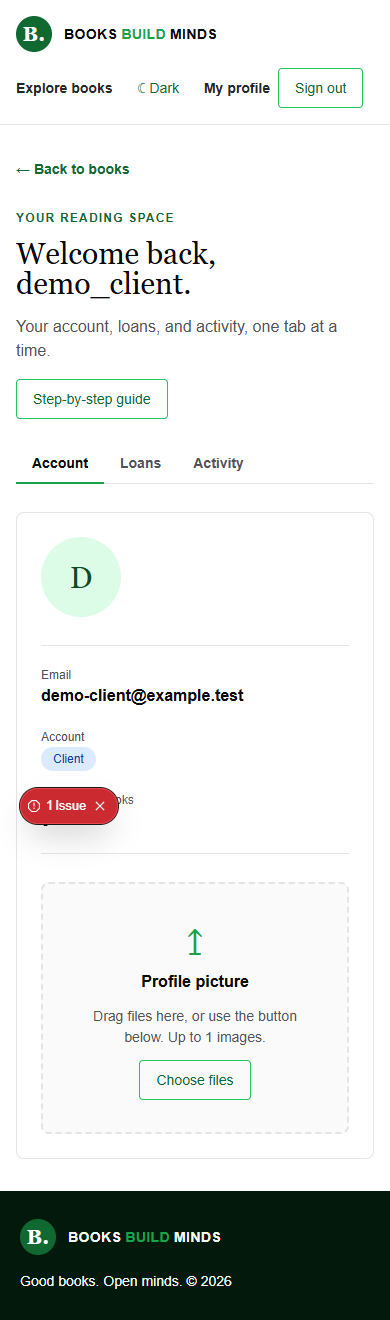
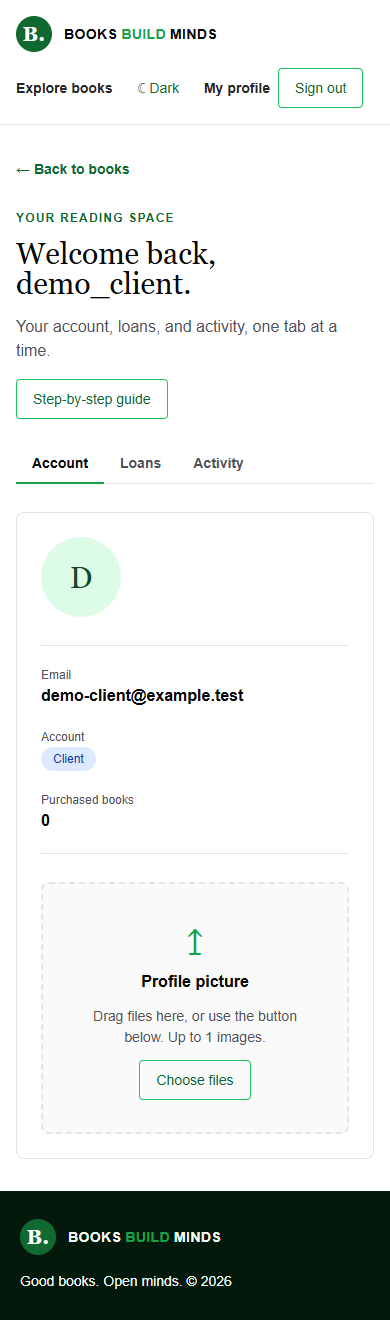
Fix tab hydration and refresh responsive screenshots

Changed region(s): [[0.0308, 0.5902, 0.3077, 0.6523]]

diff --git a/src/Components/custom/tabs/GenericTabs.tsx b/src/Components/custom/tabs/GenericTabs.tsx
@@ -7,14 +7,14 @@ import type { GenericTabsProps } from "@/props/custom/tabs/GenericTabsProps";
 
 const GenericTabs = (props: GenericTabsProps) => {
   const { value, changeTab } = useGenericTabs(props);
-  return <Tabs.Root value={value} onValueChange={changeTab} lazyMount unmountOnExit={false} hideMode="activity" colorPalette="green" variant="line" mt="6" minW="0">
+  return <Tabs.Root value={value} onValueChange={changeTab} lazyMount unmountOnExit={false} colorPalette="green" variant="line" mt="6" minW="0">
     <Box overflowX="auto" pb="1">
       <Tabs.List aria-label={props.label} minW="max-content">
         {props.items.map((item) => <Tabs.Trigger key={item.value} value={item.value} disabled={item.disabled}
           px={{ base: "4", md: "6" }} py="4" fontWeight="semibold">{item.label}</Tabs.Trigger>)}
       </Tabs.List>
     </Box>
-    {props.items.map((item) => <Tabs.Content key={item.value} value={item.value} pt="6" _focusVisible={{ outline: "2px solid", outlineColor: "green.500" }}>
+    {props.items.map((item) => <Tabs.Content key={item.value} value={item.value} tabIndex={0} pt="6" _focusVisible={{ outline: "2px solid", outlineColor: "green.500" }}>
       <GenericAnimation active={value === item.value}>{item.content}</GenericAnimation>
     </Tabs.Content>)}
   </Tabs.Root>;

diff --git a/README.md b/README.md
@@ -1,18 +1,24 @@
 # Books Builds Minds — client repository
 
-This is the **client** repository for Books Builds Minds. The matching [server repository](../server/README.md) provides the catalog, authentication, permissions, uploads, workflows, and demo data. The [documentation repository](../documentation/README.md) describes each service and endpoint. These links work when the three repositories are cloned as sibling folders.
+This is the **client** repository for Books Builds Minds. The matching [server repository](https://github.com/HussainALAradi5/books_build_minds_server/blob/main/README.md) provides the catalog, authentication, permissions, uploads, workflows, and demo data. The [documentation repository](https://github.com/HussainALAradi5/books_build_minds_documentation/blob/main/README.md) describes each service and endpoint. The related repository links point to the published GitHub repositories.
 
 ## Related repositories
 
-| Repository | Local link | What it contains |
+| Repository | GitHub link | What it contains |
 | --- | --- | --- |
 | Client | This repository | Next.js pages, Chakra UI components, hooks, typed API services, and screenshots |
-| Server | [Open server repository](../server/README.md) | Flask API, business rules, PostgreSQL models, migrations, and demo seeding |
-| Documentation | [Open documentation repository](../documentation/README.md) | Setup guides and feature-by-feature service and endpoint references |
+| Server | [Open server repository](https://github.com/HussainALAradi5/books_build_minds_server/blob/main/README.md) | Flask API, business rules, PostgreSQL models, migrations, and demo seeding |
+| Documentation | [Open documentation repository](https://github.com/HussainALAradi5/books_build_minds_documentation/blob/main/README.md) | Setup guides and feature-by-feature service and endpoint references |
 
-The three folders are independent Git repositories. Their local links require a sibling checkout; GitHub URLs can be added after those repositories are created.
+The related repository links point to the published GitHub repositories.
 
 ## Preview
+
+The latest [Chakra UI tabs and workflow guides](docs/screenshots/tabs/README.md) organize profile, administration, access management, and book detail sections.
+
+![Tabbed profile](docs/screenshots/tabs/profile-desktop.png)
+
+Read the [security controls and deployment requirements](https://github.com/HussainALAradi5/books_build_minds_documentation/blob/main/security/README.md) before exposing a live service.
 
 ![Books Builds Minds home page in desktop light mode](docs/screenshots/home-desktop-light.png)
 
@@ -26,7 +32,7 @@ The [workflow screenshots](docs/screenshots/workflows/README.md) show registrati
 
 Node.js 20.9+ is required.
 
-1. Follow the [server setup](../server/README.md) to run Flask and seed the test accounts.
+1. Follow the [server setup](https://github.com/HussainALAradi5/books_build_minds_server/blob/main/README.md) to run Flask and seed the test accounts.
 2. Install client dependencies and create local configuration:
 
    ```powershell
@@ -75,4 +81,4 @@ npm run lint
 npm run build
 ```
 
-See the [screenshot index](docs/screenshots/README.md) and the [feature documentation](../documentation/README.md). The repositories have no GitHub remote configured yet; add each remote after creating the corresponding GitHub repository.
+See the [screenshot index](docs/screenshots/README.md) and the [feature documentation](https://github.com/HussainALAradi5/books_build_minds_documentation/blob/main/README.md). The repositories have no GitHub remote configured yet; add each remote after creating the corresponding GitHub repository.

diff --git a/docs/screenshots/tabs/README.md b/docs/screenshots/tabs/README.md
@@ -1,0 +1,20 @@
+# Chakra UI tabs and guides
+
+These screenshots show the current tabbed layouts, using a temporary server database with demo accounts.
+
+| View | Light | Dark |
+| --- | --- | --- |
+| Profile account, desktop | [View](profile-desktop.png) | [View](profile-desktop-dark.png) |
+| Profile loans | [View](profile-loans.png) | [View](profile-loans-dark.png) |
+| Profile account, mobile | [View](profile-mobile.png) | [View](profile-mobile-dark.png) |
+| Written workflow guide, mobile | [View](guide-mobile.png) | [View](guide-mobile-dark.png) |
+| Admin inventory, desktop | [View](admin-desktop.png) | [View](admin-desktop-dark.png) |
+| Access management, mobile | [View](access-mobile.png) | [View](access-mobile-dark.png) |
+
+![Profile tabs](profile-desktop.png)
+
+![Mobile guide](guide-mobile.png)
+
+Use the profile tabs to switch between Account, Loans, and Activity. The administration and access pages have their own tabs. Select **Step-by-step guide** for written instructions with Previous, Next, and Done controls. The guide does not perform transactions.
+
+See the [component documentation](https://github.com/HussainALAradi5/books_build_minds_documentation/blob/main/architecture/ui-components.md) and [security documentation](https://github.com/HussainALAradi5/books_build_minds_documentation/blob/main/security/README.md). Earlier workflow screenshots show the previous stacked layout; their underlying actions remain available through these tabs.

diff --git a/docs/screenshots/workflows/README.md b/docs/screenshots/workflows/README.md
@@ -1,6 +1,6 @@
 # Test the library workflows
 
-These images show the running client using the Flask API. To reproduce them, run the [server](../../../../server/README.md), start the [client](../../../README.md), and seed the documented local accounts with `seed-demo --test-accounts`. The screenshots use **Sapiens**; choose another unpurchased book if that account has already completed a step.
+These images show the running client using the Flask API. To reproduce them, run the [server](https://github.com/HussainALAradi5/books_build_minds_server/blob/main/README.md), start the [client](../../../README.md), and seed the documented local accounts with `seed-demo --test-accounts`. The screenshots use **Sapiens**; choose another unpurchased book if that account has already completed a step.
 
 ## 1. Join or sign in
 

diff --git a/docs/screenshots/README.md b/docs/screenshots/README.md
@@ -2,6 +2,8 @@
 
 These screenshots come from the running Next.js client backed by the local Flask API. Desktop images use a 1440px viewport; mobile images use a 390px viewport.
 
+The [latest tabs and guides gallery](tabs/README.md) contains twelve refreshed light/dark screenshots captured on 2026-10-12.
+
 The [illustrated workflow](workflows/README.md) shows what a visitor, client, employee, and administrator can do, with screenshots after borrowing, purchasing, and posting a review.
 
 | Page | Light | Dark |
